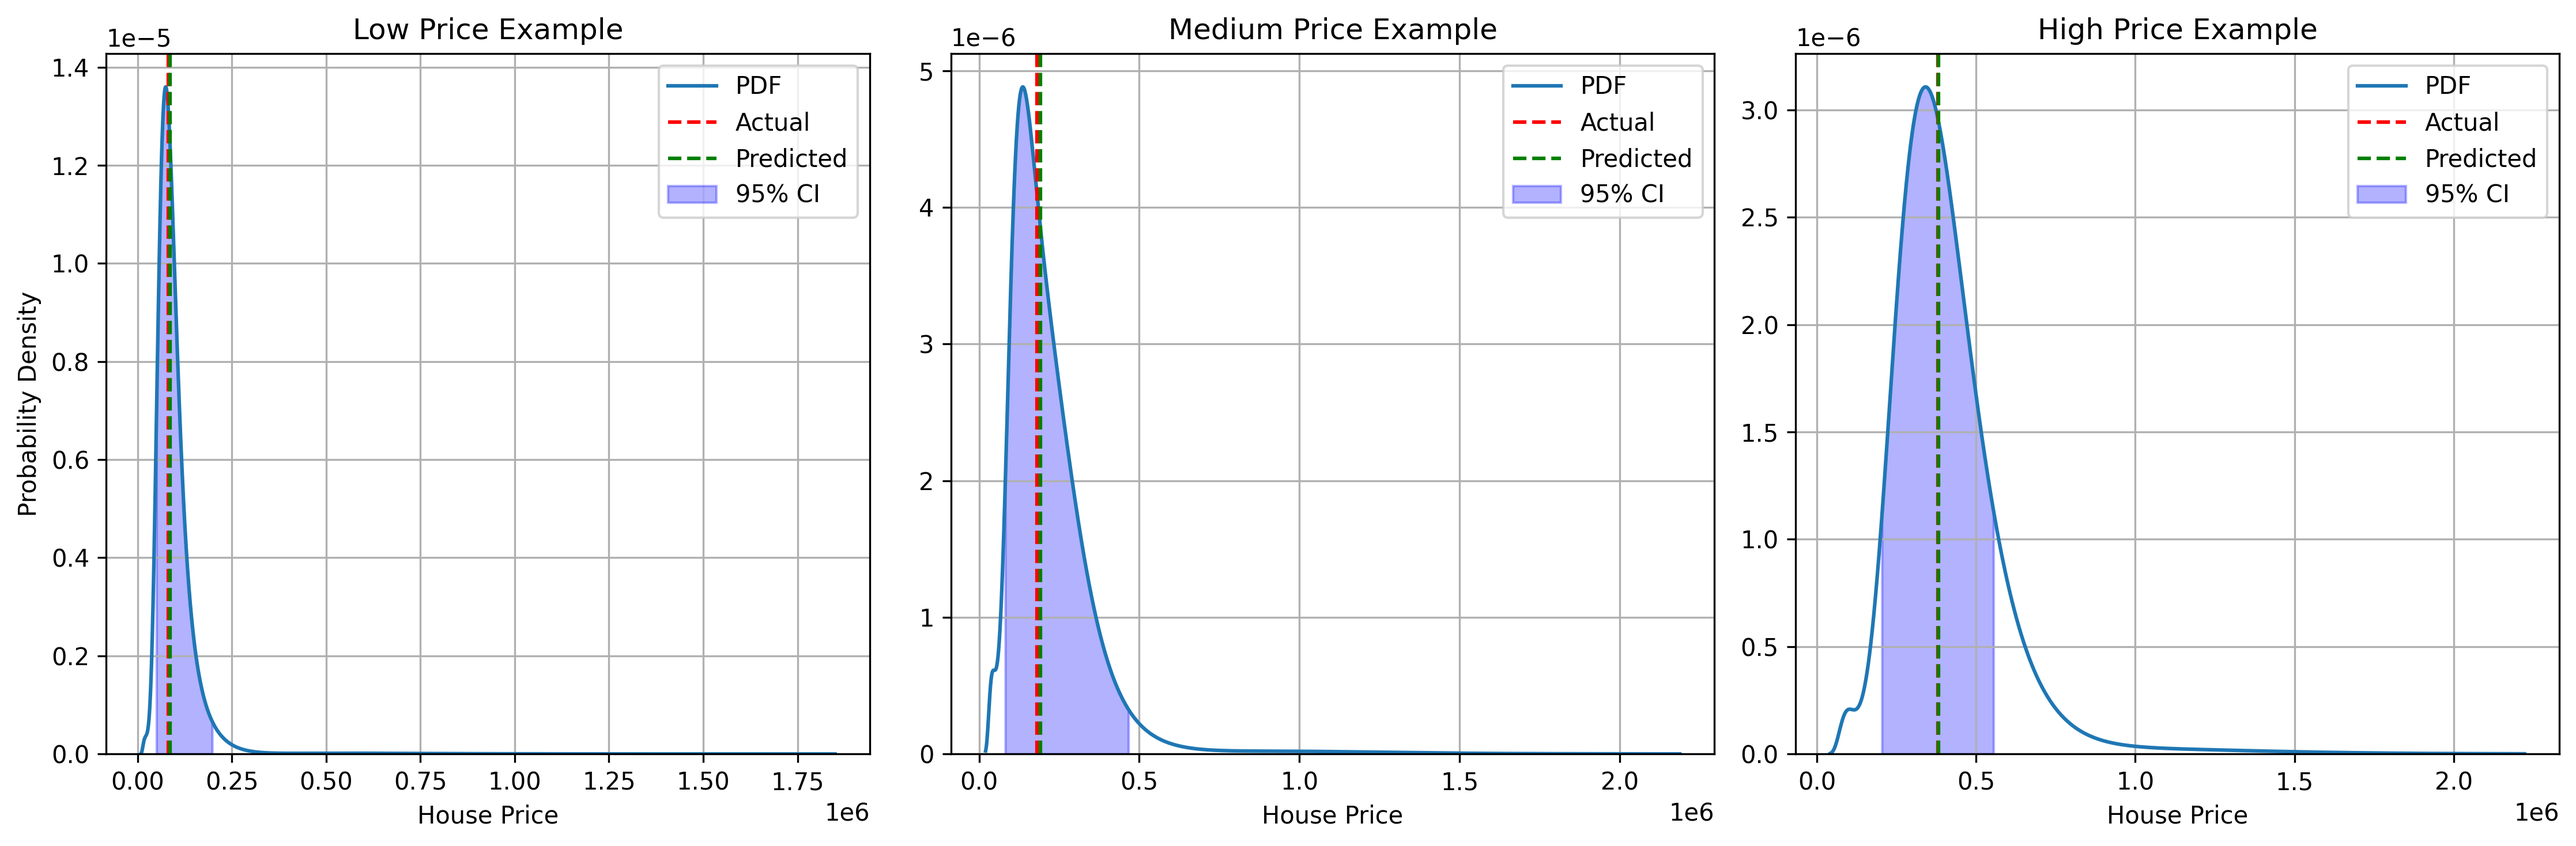
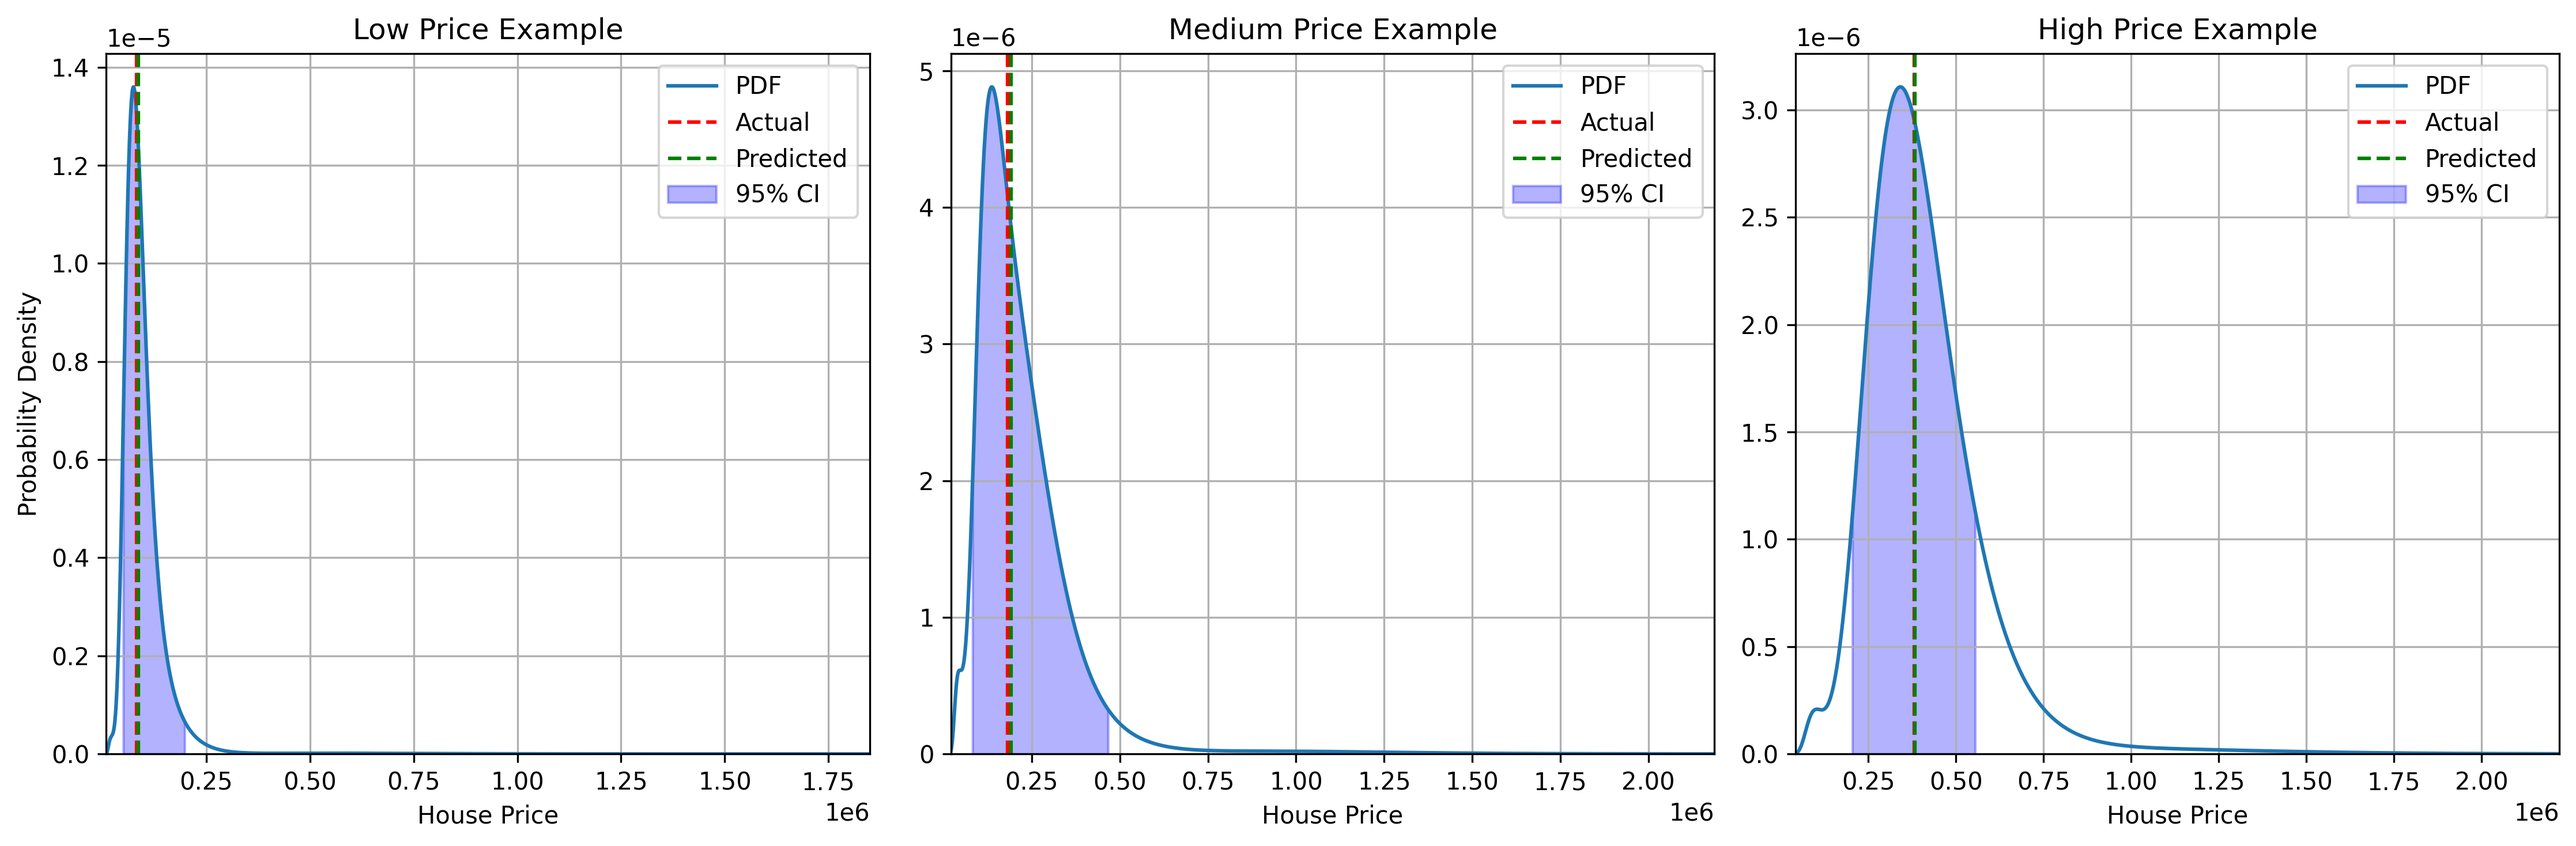
Update example to ensure actual observation is always present

diff --git a/prob_gbt/examples/example.py b/prob_gbt/examples/example.py
@@ -261,6 +261,14 @@ def main():
     if y_max > 1e-4:
         plt.ylim(top=min(y_max*1.1, 1e-4))
     
+    # Set x-axis limits to ensure actual value (red line) is visible
+    # Get min/max x values from the distribution
+    x_min, x_max = np.min(x_values), np.max(x_values)
+    # Include actual value in limits with padding
+    x_min = min(x_min, y_raw_test[sample_idx] * 0.9)
+    x_max = max(x_max, y_raw_test[sample_idx] * 1.1)
+    plt.xlim(x_min, x_max)
+    
     plt.xlabel('House Price')
     plt.ylabel('Probability Density')
     plt.title(f'Predicted Probability Distribution for California House Sample {sample_idx}')
@@ -312,6 +320,14 @@ def main():
         y_max = np.max(pdf_vals)
         if y_max > 1e-4:
             axes[i].set_ylim(top=min(y_max*1.1, 1e-4))
+            
+        # Set x-axis limits to ensure actual value (red line) is visible
+        # Get min/max x values from the distribution
+        x_min, x_max = np.min(x_vals), np.max(x_vals)
+        # Include actual value in limits with padding
+        x_min = min(x_min, y_raw_test[idx] * 0.9)
+        x_max = max(x_max, y_raw_test[idx] * 1.1)
+        axes[i].set_xlim(x_min, x_max)
         
         price_category = "Low" if i == 0 else "Medium" if i == 1 else "High"
         axes[i].set_title(f'{price_category} Price Example')

diff --git a/README.md b/README.md
@@ -135,9 +135,8 @@ ProbGBT works by:
 
 1. **Quantile Transformation**: Generating non-uniformly spaced quantiles with more focus on the tails of the distribution
 2. **Multi-Quantile Regression**: Training a CatBoost model to predict multiple quantiles simultaneously (or separate models for each quantile)
-3. **Smoothing**: Using Generalized Additive Models (GAMs) to smooth the quantile function
-4. **PDF Estimation**: Computing the derivative of the smoothed quantile function to obtain the probability density function
-5. **Calibration** (optional): Using conformal prediction to ensure statistical validity of the confidence intervals
+3. **PDF Estimation**: Computing the probability density function from quantiles
+4. **Calibration** (optional): Using conformal prediction to ensure statistical validity of the confidence intervals
 
 ### Technical Details on PDF Generation
 
@@ -184,7 +183,7 @@ The PDF generation process in ProbGBT involves several sophisticated steps:
 
    The choice of smoothing method depends on your specific needs:
       - Use `sample_kde` (default) for the most accurate representation when computational cost is not a concern
-      - Use `spline` for the fastest performance when dealing with large datasets or no calibration is used
+      - Use `spline` for the fastest performance when dealing with large datasets or when no calibration is used
       - Use `gmm` for a good balance between smooth distributions and reasonable performance
 
 ### Calibration Process
